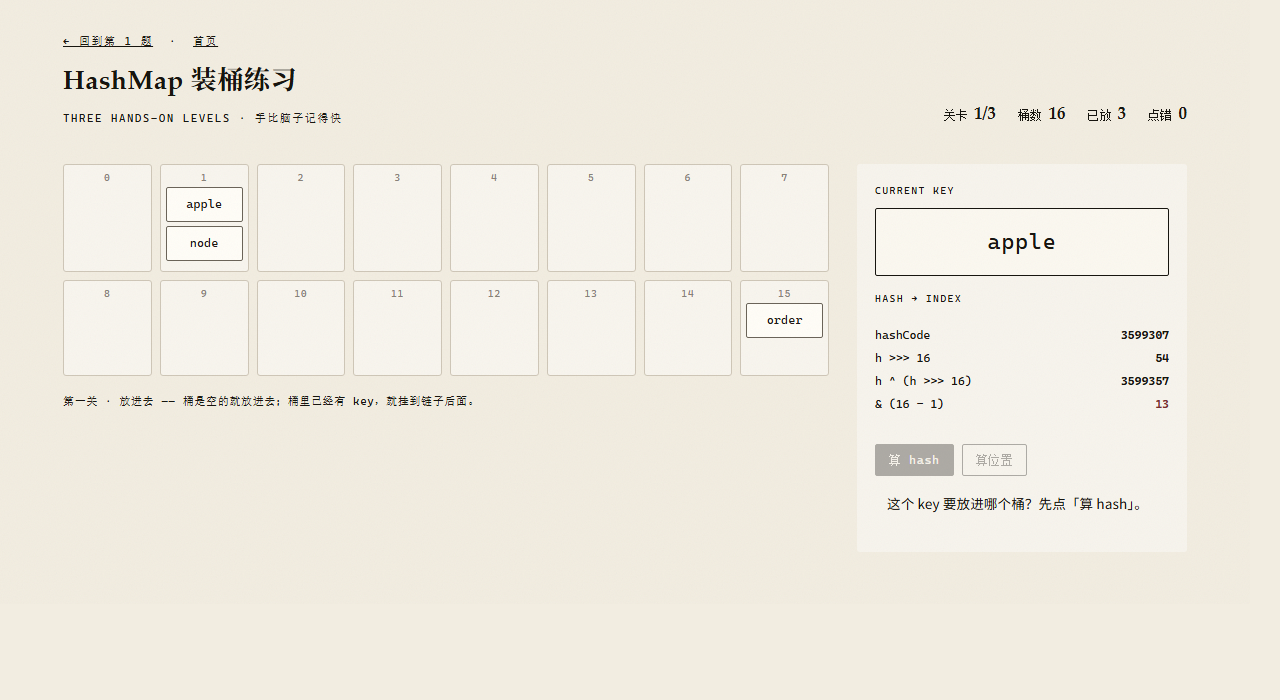
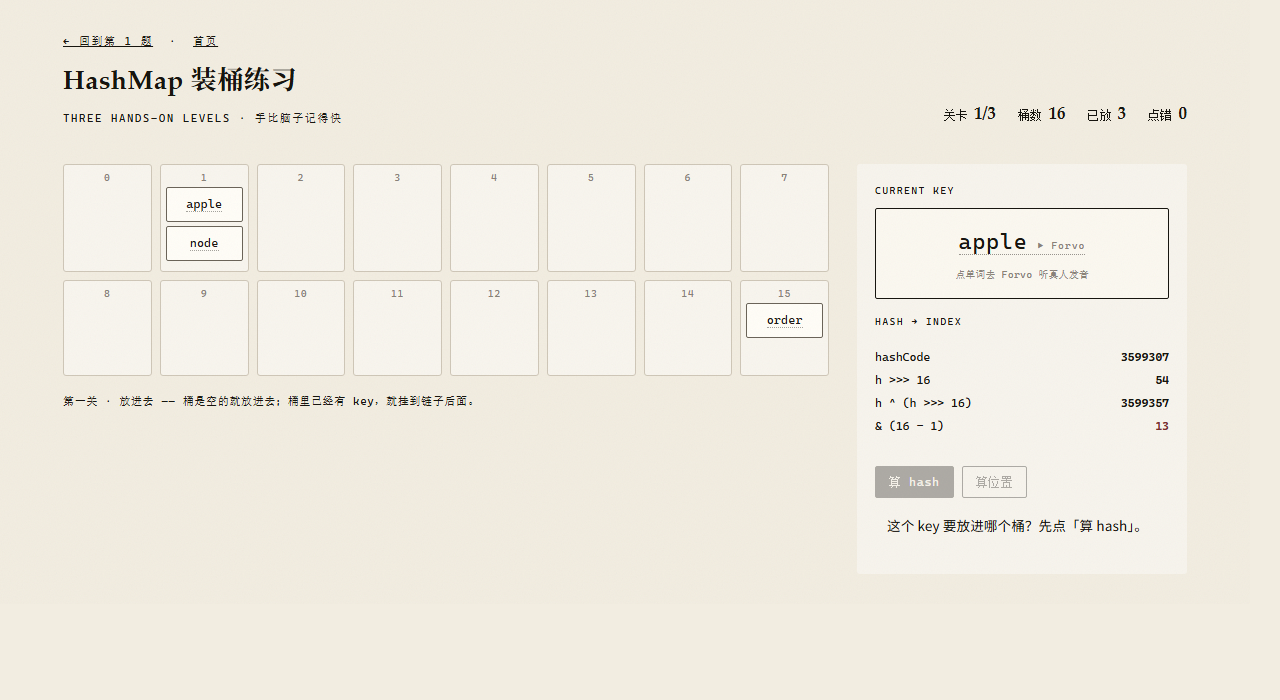
游戏里每个单词都能点开 Forvo 听真人发音（选桶时临时禁用，避免抢点击）

Changed region(s): [[0.6562, 0.42, 0.9062, 0.78], [0.75, 0.33, 0.8438, 0.42], [0.875, 0.45, 0.9062, 0.6]]

diff --git a/game/hashmap.html b/game/hashmap.html
@@ -38,11 +38,19 @@
   .node:last-child .lnk{display:none}
   .node .badge{display:block;margin-top:2px;font-family:var(--mono);font-size:8.5px;
                color:var(--ink-2);letter-spacing:.06em;line-height:1}
+  a.say{color:inherit;text-decoration:none;border-bottom:1px dotted rgba(31,27,22,.45)}
+  a.say:hover{border-bottom-color:var(--ink);color:#000}
+  a.say .saybtn{font-family:var(--mono);font-size:10px;letter-spacing:.1em;color:#8a8378;margin-left:10px;white-space:nowrap;border:0}
+  a.say:hover .saybtn{color:var(--ink)}
+  .node a{color:inherit;text-decoration:none;border-bottom:1px dotted rgba(31,27,22,.4)}
+  .node a:hover{border-bottom-color:#1F1B16}
+  .board.picking .node a{pointer-events:none}
   .tag-tree{font-family:var(--mono);font-size:9.5px;color:#A33;letter-spacing:.04em;margin-top:6px;text-align:center;line-height:1.4}
 
   /* 右面板 */
   .panel{border:1px solid var(--line);border-radius:3px;padding:18px 18px 16px;background:rgba(255,255,255,.4)}
   .panel .lb{font-family:var(--mono);font-size:10px;letter-spacing:.14em;text-transform:uppercase;color:var(--ink-3)}
+  .keycard .hintx{font-family:var(--mono);font-size:9.5px;letter-spacing:.06em;color:#8a8378;margin-top:6px;font-weight:400}
   .keycard{margin:8px 0 14px;padding:14px 12px;border:1px solid var(--ink);border-radius:2px;
            background:#FBF8F0;text-align:center;font-family:var(--mono);font-size:22px;letter-spacing:.04em}
   .steps{font-family:var(--mono);font-size:11.5px;line-height:2;color:var(--ink-2);min-height:104px}
@@ -160,6 +168,15 @@
     return h;
   }
   function spread(h){ return (h ^ (h >>> 16)) >>> 0; }
+  function forvo(key){
+    var w = String(key).replace(/[^A-Za-z ]/g, '').trim() || String(key);
+    return 'https://forvo.com/search/' + encodeURIComponent(w) + '/';
+  }
+  function sayLink(key, cls, tag){
+    return '<a class="' + (cls || 'say') + '" href="' + forvo(key) + '" target="_blank" rel="noopener"'
+         + ' title="去 Forvo 听 ' + key + ' 的真人发音">'
+         + key + (tag ? '<span class="saybtn">▶ Forvo</span>' : '') + '</a>';
+  }
   function bucketOf(key, cap){ return spread(javaHash(key)) & (cap - 1); }
 
   /* ---------- 关卡数据（每个 key 的落桶位置已用真实 Java 算法核对过） ---------- */
@@ -229,7 +246,7 @@
       (S.buckets[i] || []).forEach(function(k){
         var n = document.createElement('div');
         n.className = 'node' + (S.treeified && i === S.treeBucket ? ' tree' : '');
-        n.textContent = k;
+        n.innerHTML = sayLink(k, 'nw', false);
         var lnk = document.createElement('i');
         lnk.className = 'lnk';
         n.appendChild(lnk);
@@ -275,7 +292,7 @@
     });
     $('treeFig').innerHTML = '';
     $('ltip').textContent = L.title + ' —— ' + L.sub;
-    $('key').textContent = S.queue[0] || '—';
+    $('key').innerHTML = S.queue[0] ? sayLink(S.queue[0], 'say', true) + '<div class="hintx">点单词去 Forvo 听真人发音</div>' : '—';
     ['s1','s2','s3','s4'].forEach(function(id){ $(id).classList.remove('on','hl'); $(id).querySelector('.v').textContent = '—'; });
     $('bHash').disabled = false; $('bIdx').disabled = true; $('bTree').style.display = 'none';
     setMsg('这个 key 要放进哪个桶？先点「算 hash」。');
@@ -313,7 +330,7 @@
     S.q++;
     if (S.q >= S.queue.length){ done(); return; }
     S.phase = 'ready';
-    $('key').textContent = S.queue[S.q];
+    $('key').innerHTML = sayLink(S.queue[S.q], 'say', true) + '<div class="hintx">点单词去 Forvo 听真人发音</div>';
     ['s1','s2','s3','s4'].forEach(function(id){ $(id).classList.remove('on','hl'); $(id).querySelector('.v').textContent = '—'; });
     $('bHash').disabled = false; $('bIdx').disabled = true;
     paintSteps(0);
@@ -403,6 +420,7 @@
     if (S.phase !== 'ready') return;
     S.phase = 'hashed';
     paintSteps(2);
+    setPicking(false);
     this.disabled = true;
     $('bIdx').disabled = false;
     setMsg('h 是 hashCode；h >>> 16 把高位挪到低位；两者异或是为了让高位也参与选桶。接着算位置。');
@@ -415,8 +433,13 @@
     this.disabled = true;
     var key = S.queue[S.q];
     var b = bucketOf(key, S.cap);
+    setPicking(true);
     setMsg('算出来了，看上面最后一行。现在点它该去的那个桶。', '');
   };
+
+  function setPicking(on){
+    $('board').classList.toggle('picking', !!on);
+  }
 
   $('board').addEventListener('click', function(e){
     var el = e.target.closest('.bucket');
@@ -443,6 +466,7 @@
     var existed = S.buckets[i].length;
     S.buckets[i].push(key);
     S.phase = 'idle';
+    setPicking(false);
     renderBoard();
     var cell = document.querySelector('.bucket[data-i="' + i + '"]');
     if (cell){
